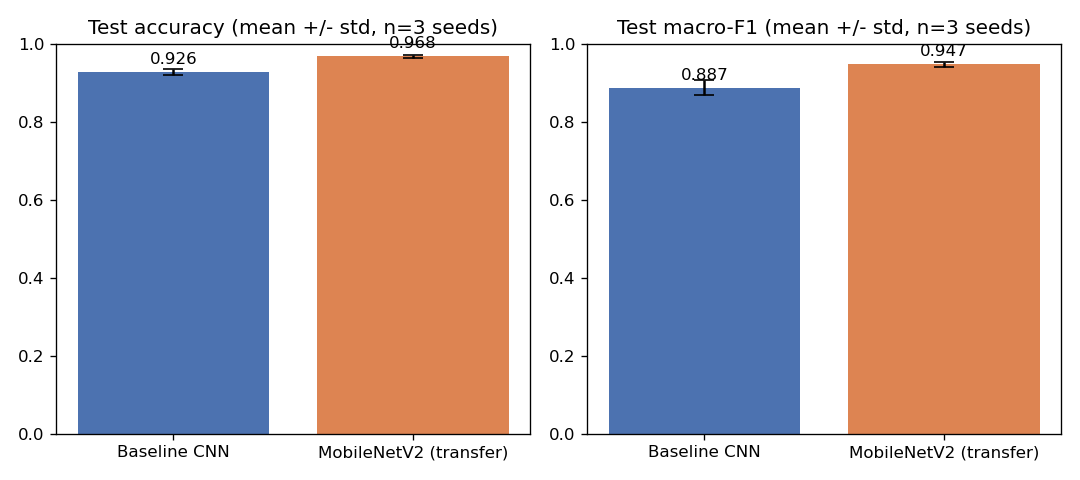
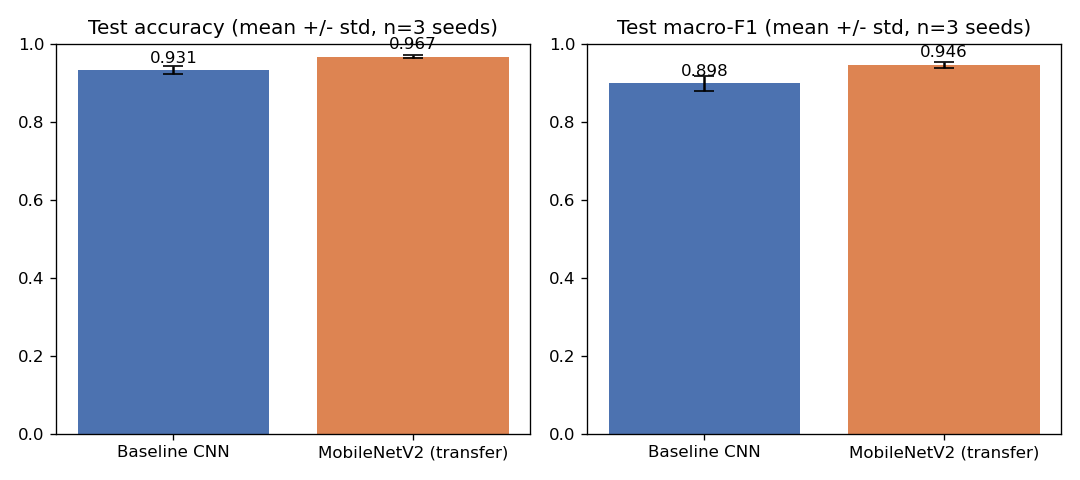
Add seeds 7 and 999

diff --git a/scripts/run_experiments.py b/scripts/run_experiments.py
@@ -22,7 +22,7 @@ RAW_DIR = ROOT / "data" / "raw"
 CKPT_DIR = ROOT / "checkpoints"
 REPORTS_DIR = ROOT / "reports"
 
-SEEDS = [42, 123, 2024]
+SEEDS = [42, 123, 2024, 7, 999]
 
 ARCHS = {
     "baseline_cnn": {
